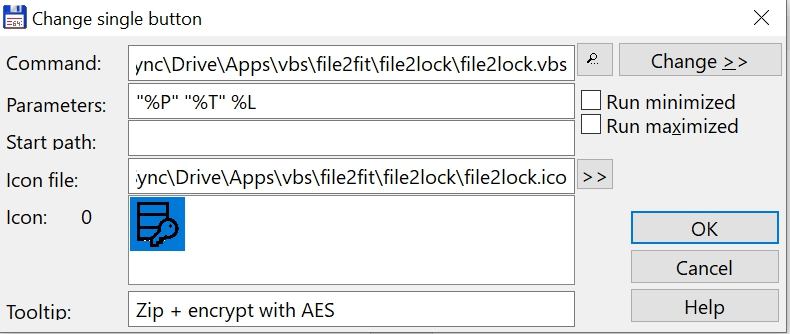
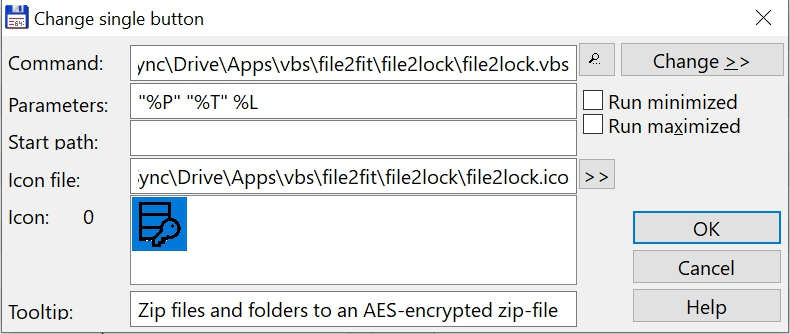
Updated readme files

diff --git a/file2convert/readme.md b/file2convert/readme.md
@@ -1,0 +1,35 @@
+# File2convert
+
+Converts one or more files into a different format. The files can be from 3 different categories:
+- Image files = bmp, gif, ico, jpg, jpeg, png, psd, psp, tga, tif, tiff, wmf, webp
+- Music files = wav, mp3, flac, ape, ogg
+- Document files = md, html, epub, txt, tex, xml (if pandoc is installed)
+
+
+The utility is based on 
+- cwebp/dwebp: https://developers.google.com/speed/webp/docs/cwebp
+- irfanview: https://www.irfanview.com/
+- flac: https://xiph.org/flac/index.html
+- ogg: https://rarewares.org/ogg-oggenc.php
+- lame: https://lame.sourceforge.io/
+- ape: https://www.monkeysaudio.com/index.html
+- pandoc: https://pandoc.org/
+
+
+## Install instructions
+
+* Copy the folder file2convert into a folder of your choice
+* Make a new entry in the TC button bar (Configuration, Button Bar)
+    - at the command line: fill in the path to the file2convert.vbs file
+    - for parameters fill in (including quotes): "%P" "%T" %L
+    - for icon file: fill in the path to the file2convert.ico file
+    - for tooltip fill in the text: Convert image, music of document file(s)
+    - see screenshot
+* Install pandoc from https://pandoc.org/ if you want to enable the conversion of document files
+
+## Usage
+
+* Select one or more files or folder
+* If the program recognizes the files, it will ask you the format to convert it in.
+* If the category of files is not clear the program will ask you.
+* Make sure you install pandoc from https://pandoc.org/. Without it the document conversion won't work. 

diff --git a/pdf2pdf/readme.md b/pdf2pdf/readme.md
@@ -1,17 +1,20 @@
+# Pdf2pdf
+
 Split pdf-file or join pdf-files to one pdf-file. The utility is based on the PDF Toolkit Free:
+
 https://www.pdflabs.com/tools/pdftk-the-pdf-toolkit/
 PDFtk Free is our friendly graphical tool for quickly merging and splitting PDF documents and pages. It is free to use for as long as you like.
 
+## Install instructions
 
-Install instructions
-* copy the folder pdftk into a folder of your choice
-* make a new entry in the TC button bar (Configuration, Button Bar)
-    - at the command line: fill in the path to the pdftk.vbs file
+* Copy the folder pdf2pdf into a folder of your choice
+* Make a new entry in the TC button bar (Configuration, Button Bar)
+    - at the command line: fill in the path to the pdf2pdf.vbs file
     - for parameters fill in: %L %T
-    - for icon file: fill in the path to the pdftk.ico file
+    - for icon file: fill in the path to the pdf2pdf.ico file
     - for tooltip fill in the text: Split pdf-file or join pdf-files
     - see screenshot
 
-Usage
+## Usage
 * If you select one pdf-file the program will split it in a pdf-file for every page.
 * If you select more than one pdf-file the program will join the files to one pdf-file in the order as listed in TC.

diff --git a/file2erase/readme.md b/file2erase/readme.md
@@ -1,0 +1,22 @@
+# File2erase
+
+Secure delete one or more files. The utility is based on MicroSoft utility SDelete.exe:
+https://docs.microsoft.com/en-us/sysinternals/downloads/sdelete
+
+
+The only way to ensure that deleted files, as well as files that you encrypt with EFS, are safe from recovery is to use a secure delete application. Secure delete applications overwrite a deleted file's on-disk data using techniques that are shown to make disk data unrecoverable, even using recovery technology that can read patterns in magnetic media that reveal weakly deleted files. SDelete (Secure Delete) is such an application.
+
+
+## Install instructions
+
+* Copy the folder file2erase into a folder of your choice
+* Make a new entry in the TC button bar (Configuration, Button Bar)
+    - at the command line: fill in the path to the file2erase.vbs file
+    - for parameters fill in: %L
+    - for icon file: fill in the path to the file2erase.ico file
+    - for tooltip fill in the text: Secure delete file(s)
+    - see screenshot
+
+## Usage
+
+* Use with care: erased files and folders cannot be recovered!

diff --git a/file2secret/readme.md b/file2secret/readme.md
@@ -1,0 +1,20 @@
+# File2secret
+
+Encrypts or decrypts 1 or more files based on the Blowfish algorithm. Each encrypted file has a base64-encoded text format. Encrypted files get the extension .mys.
+
+The files are encrypted with the MySecret Blowfish Encryption Utility:
+
+https://www.di-mgt.com.au/mysecret.html
+http://www.schneier.com/index.html
+
+MySecret.exe is small - 150 kB - and quick. It uses the Blowfish algorithm to create base64-encoded text output that can be easily transmitted over the Internet or stored on any computer system. For more information on Blowfish see the web site of its inventor, Bruce Schneier and his references to Products that Use Blowfish.
+
+
+## Install instructions
+* Copy the folder file2secret into a folder of your choice
+* Make a new entry in the TC button bar (Configuration, Button Bar)
+    - at the command line: fill in the path to the file2secret.vbs file
+    - for parameters fill in: %L %T
+    - for icon file: fill in the path to the file2secret.ico file
+    - for tooltip fill in the text: Encrypt or decrypt with mysecret
+    - see screenshot

diff --git a/file2lock/readme.md b/file2lock/readme.md
@@ -1,0 +1,16 @@
+# File2lock
+
+Zip and encrypt 1 or more files and/or folders. Select all the items you want to add in the zip-file and click the icon in the TC-Button Bar. If you do not fill in a password the result will be a normal zip-file (format: 7zip). If you fill in a password the zipfile will be encrypted with the AES-algorithm. The AES encryption algorithm is a "block cipher" originally created by two Belgians named Joan Daemen and Vincent Rijmen. Since its adoption as a standard, AES has become one of the world's most popular encryption algorithms that uses symmetric keys for encryption and decryption.
+
+https://www.7-zip.org/
+
+
+## Install instructions
+
+* Copy the folder file2lock into a folder of your choice
+* Make a new entry in the TC button bar (Configuration, Button Bar)
+    - at the command line: fill in the path to the file2lock.vbs file
+    - for parameters fill in: "%P" "%T" %L
+    - for icon file: fill in the path to the file2lock.ico file
+    - for tooltip fill in the text: Zip files and folders to an AES-encrypted zip-file
+    - see screenshot

diff --git a/file2resize/readme.md b/file2resize/readme.md
@@ -1,0 +1,14 @@
+# File2resize
+
+Resize 1 or more image files. The files are resized with the program IrfanView. 
+
+https://www.irfanview.com/
+
+## Install instructions
+* Copy the folder file2resize into a folder of your choice
+* Make a new entry in the TC button bar (Configuration, Button Bar)
+    - at the command line: fill in the path to the file2resize.vbs file
+    - for parameters fill in: %L %T
+    - for icon file: fill in the path to the file2resize.ico file
+    - for tooltip fill in the text: Resize image(s)
+    - see screenshot
